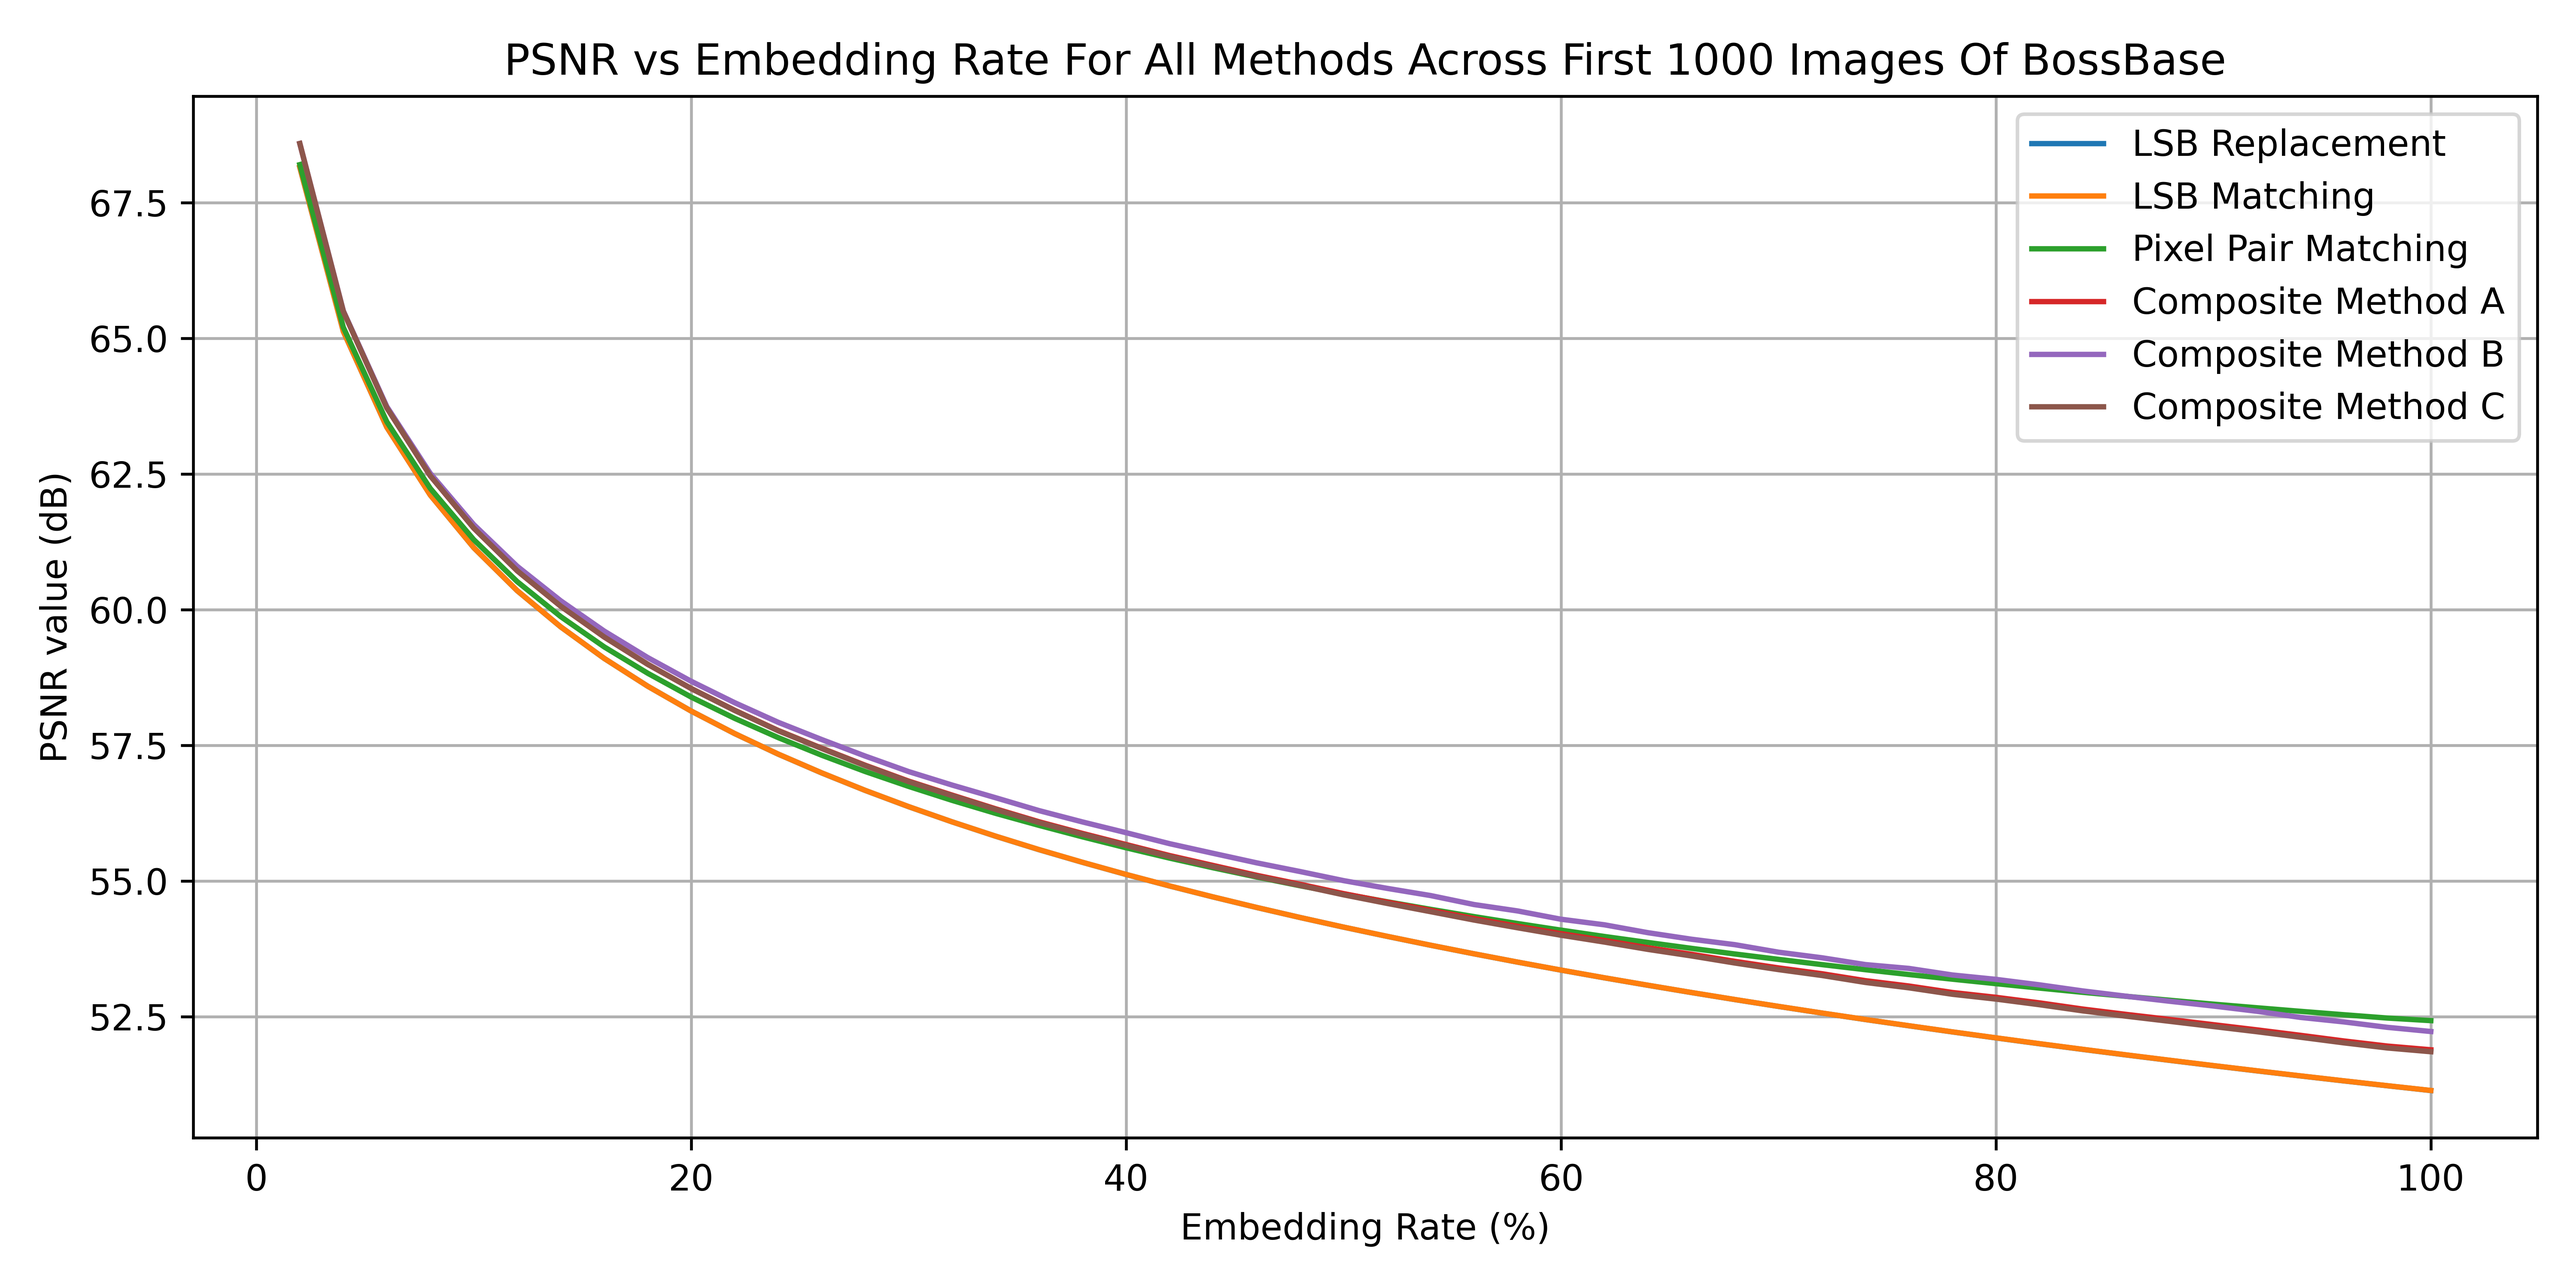
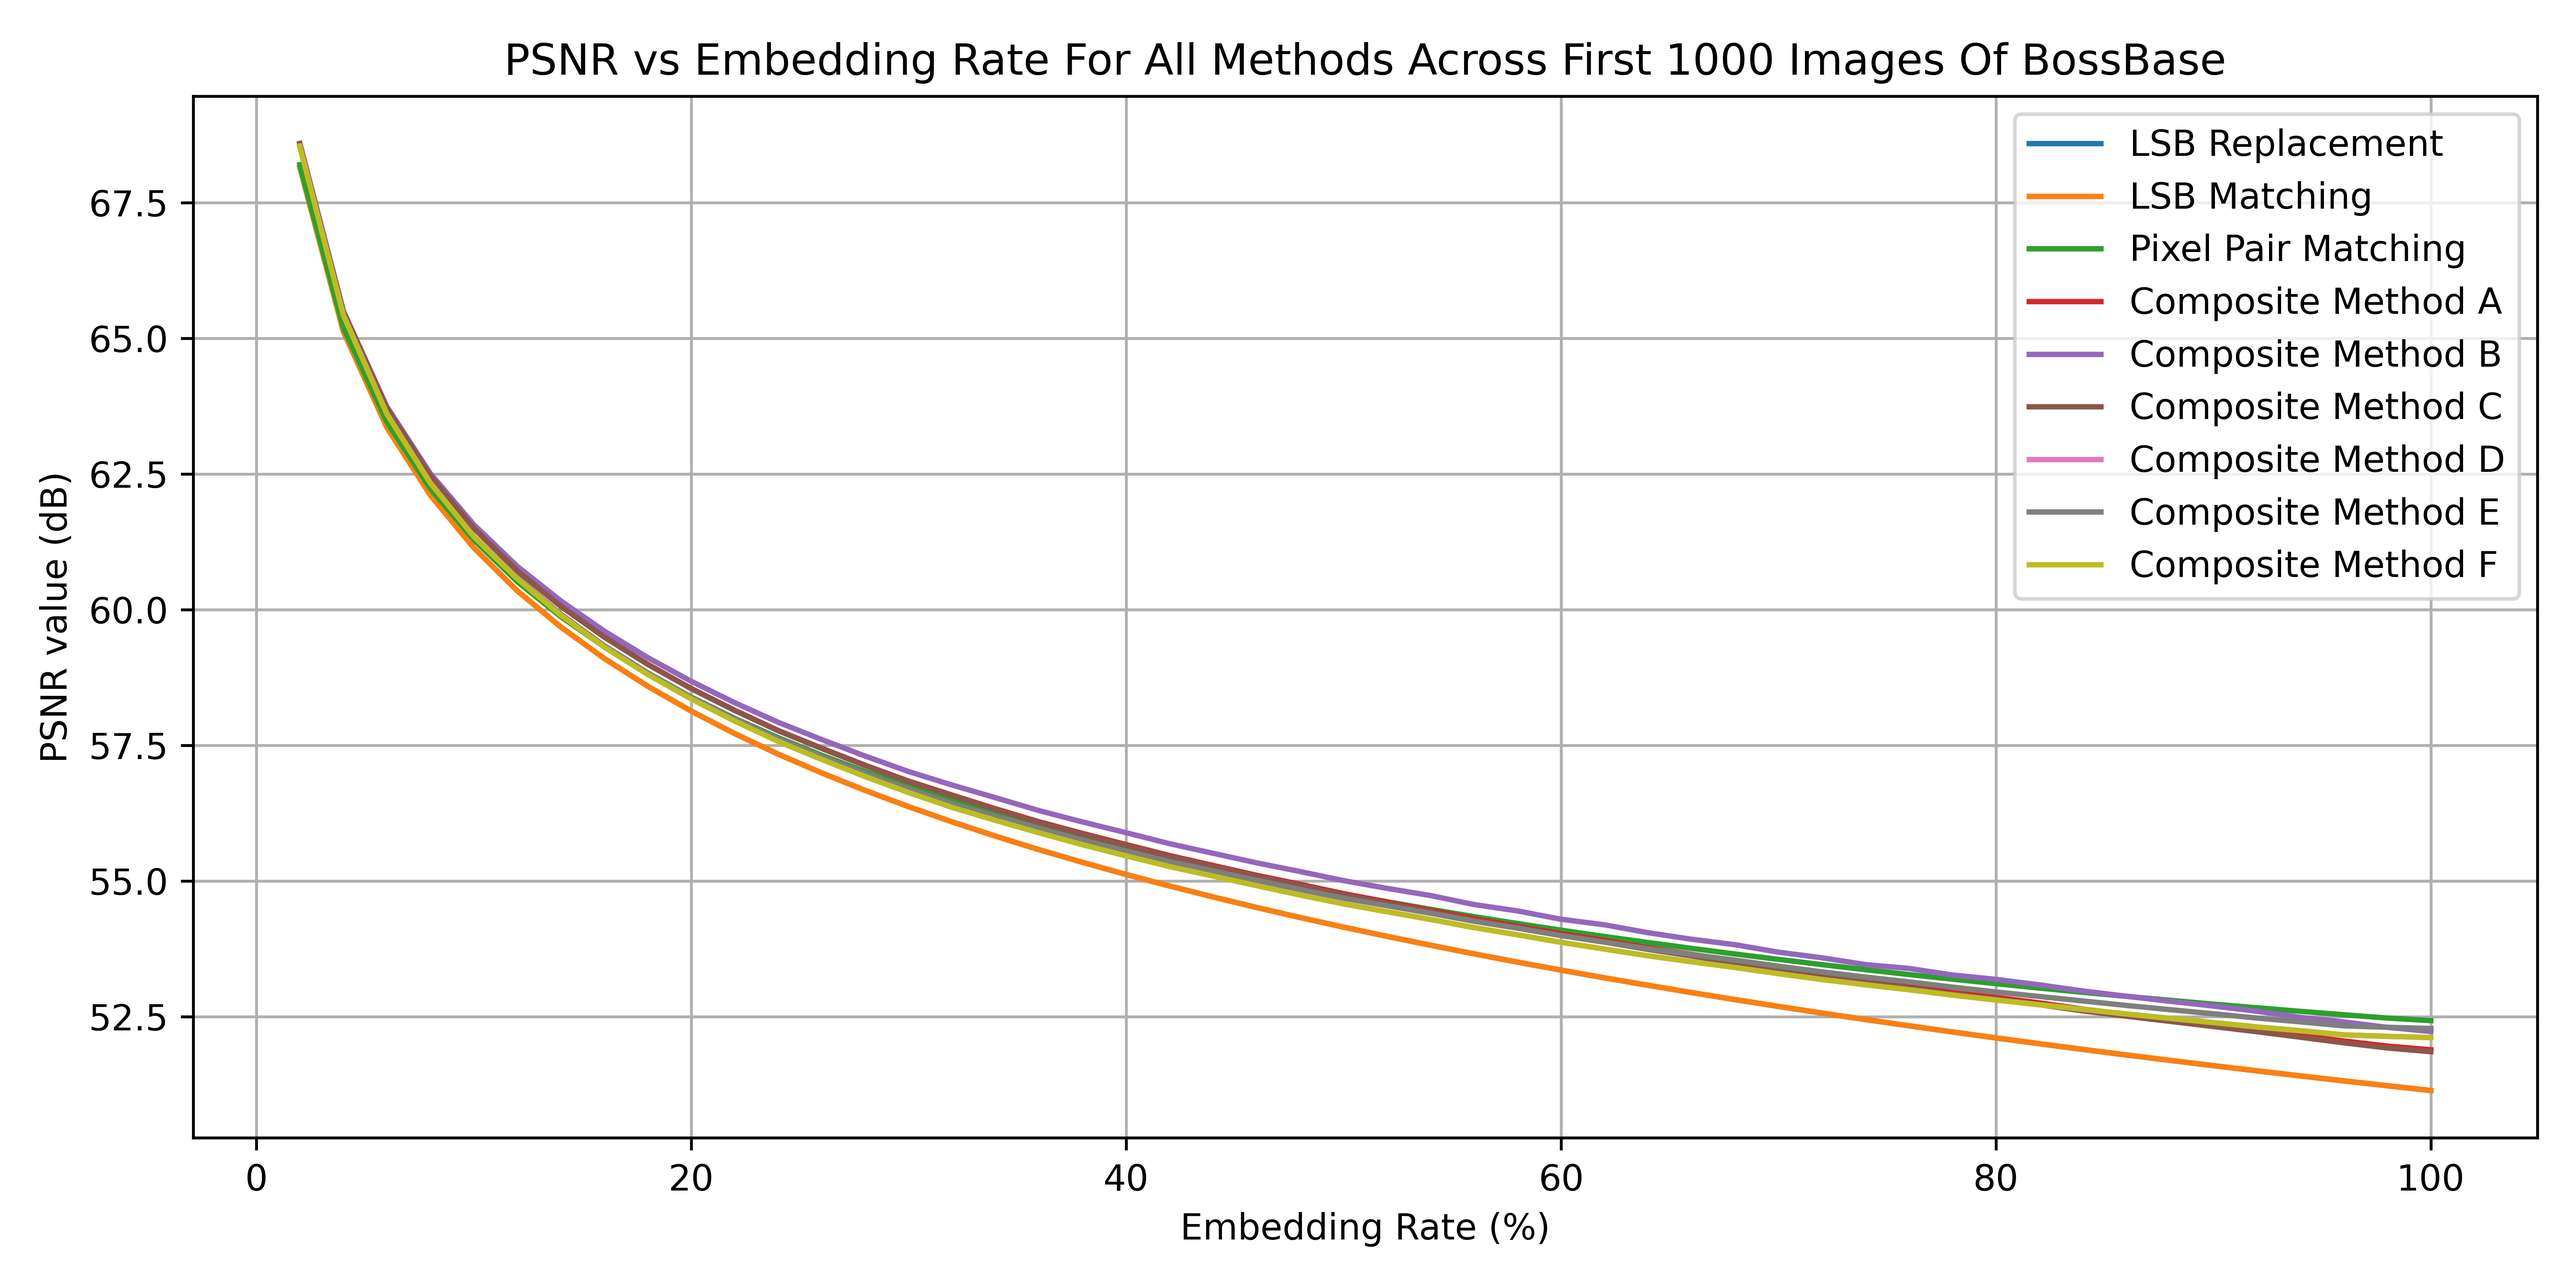
D,E,F Graphs

diff --git a/Adaptive Embedding Idea/Helpers/TestingScriptFuncVersion.py b/Adaptive Embedding Idea/Helpers/TestingScriptFuncVersion.py
@@ -35,7 +35,7 @@ class Block():
 #Splitting the secret into sections
 def CompositeMethod(secret : str, imagePath : str, bytesPerSection : int = bytesPerSectionDefault, blocksPerSide : int = blocksPerSideDefault, acceptableMappingThreshold : float = acceptableMappingThresholdDefault) -> list[list[int]]:
     
-    blocks = SplitIntoBlocks(imagePath, blockSize=64)
+    blocks = SplitIntoBlocks(imagePath, blockSize=IMAGE_SIZE//blocksPerSide)
     
     blockPositionDictOld = dict()
 

diff --git a/Adaptive Embedding Idea/GraphMakerNew.py b/Adaptive Embedding Idea/GraphMakerNew.py
@@ -396,9 +396,13 @@ def DeriveGraphsFromSQL(settings : dict):
 
 #SQLStoreCompositeMethodPSNRvEmbedRate(blockSize=(32,32), threshold=3)
 settings = {
-    "A" : (64, 3),
+    "A" : (64,3),
     "B" : (64,1),
-    "C"  : (64,5)
+    "C" : (64,5),
+    "D" : (32,3),
+    "E" : (32,1),
+    "F" : (32,5)
 }
 
+#SQLStoreCompositeMethodPSNRvEmbedRate(blockSize=(32,32), threshold=5)
 DeriveGraphsFromSQL(settings)
